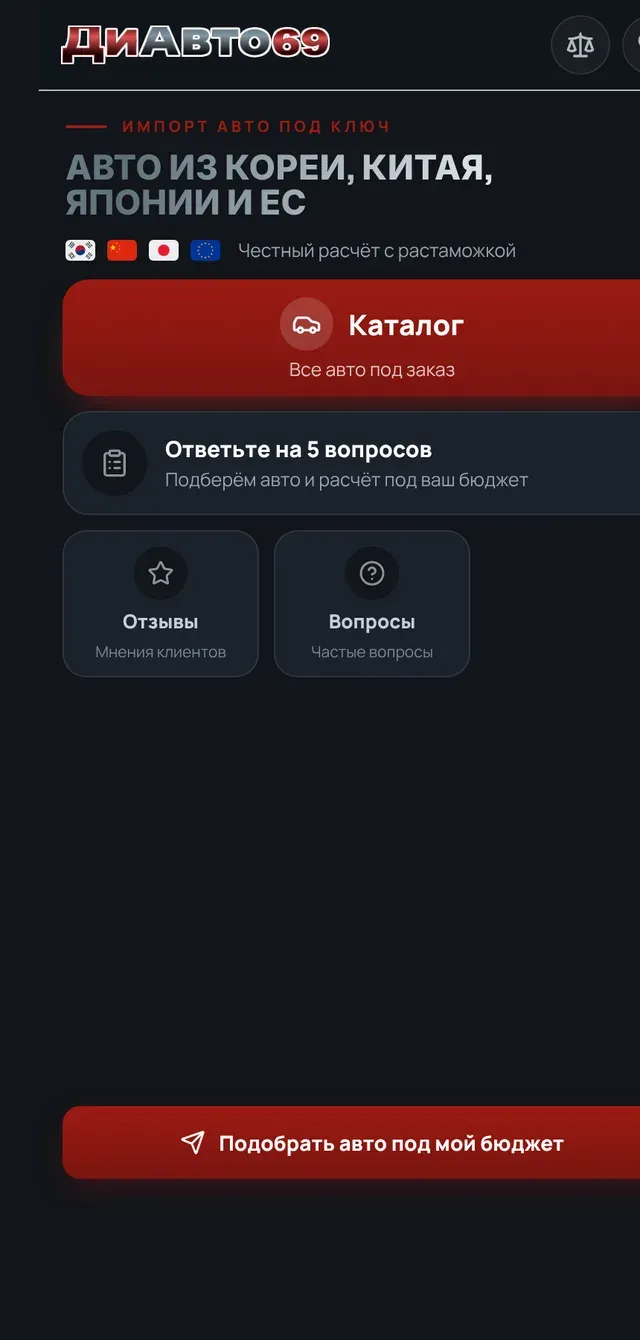
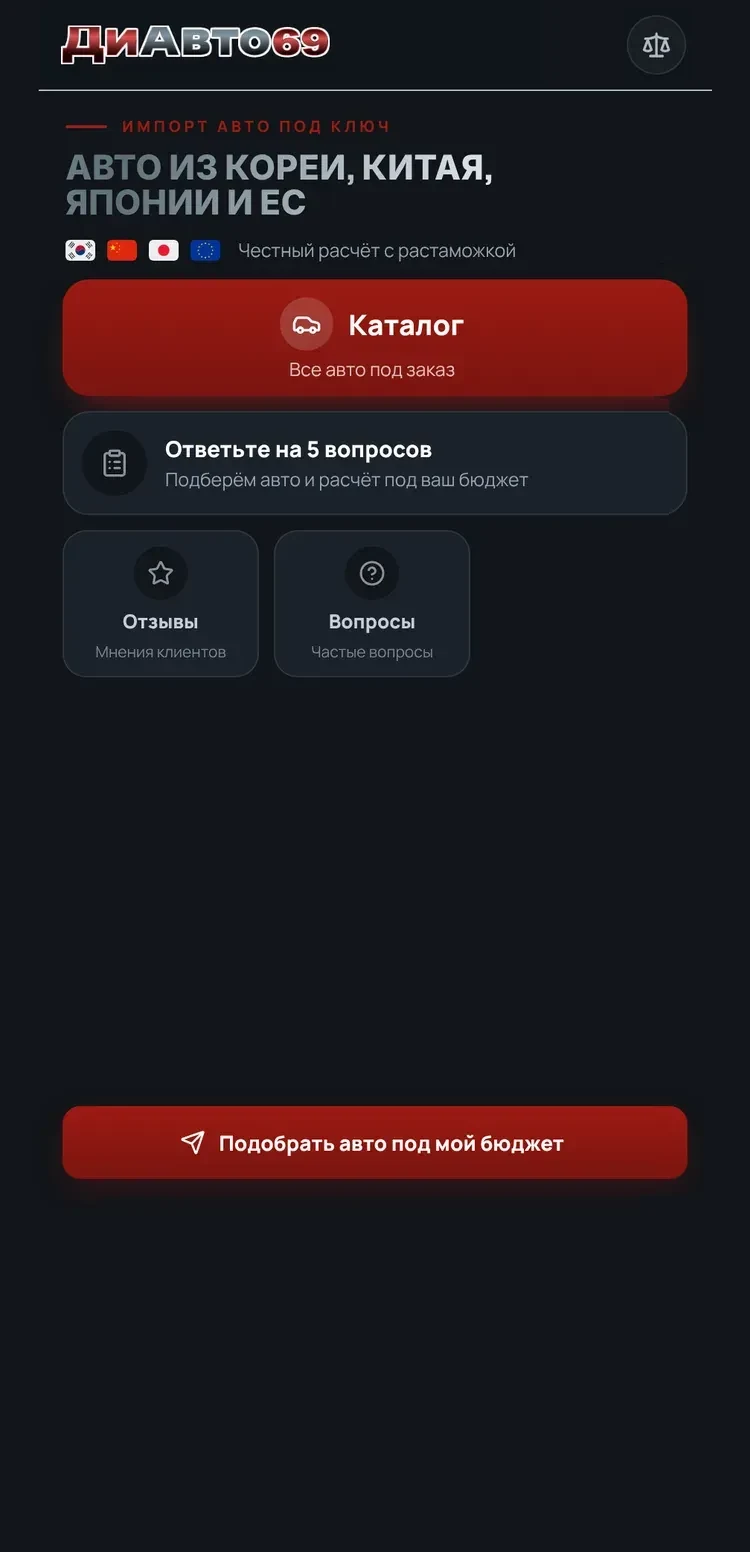
Страницы открываются сверху; ДиАвто69: раздача карточек по одной, ровный снимок мини-приложения
- SmoothScroll: при смене адреса и возврате «Назад» (включая bfcache) прокрутка и Lenis сбрасываются в начало;
  переход по якорю не трогаем.
- RingScene: колода лежит ровно, карточки вылетают по одной (в полёте не больше двух).
- Снимок мини-приложения был обрезан справа: края карточек и шапки достроены, кадр под пропорции телефона.

Claude-Session: https://claude.ai/code/session_011GUUo1nfnEfxLEAH351urY

diff --git a/src/components/diauto/RingScene.tsx b/src/components/diauto/RingScene.tsx
@@ -69,7 +69,12 @@ function glowTexture() {
 }
 
 /** Псевдослучайный разброс колоды, одинаковый при каждом заходе */
-const JITTER = CARS.map((_, i) => ({ x: Math.sin(i * 12.9) * 0.09, rz: Math.sin(i * 7.3) * 0.07 }));
+// Колода лежит ровно: еле заметный сдвиг краёв, чтобы читалось, что карточек много
+const JITTER = CARS.map((_, i) => ({ x: Math.sin(i * 12.9) * 0.02, rz: Math.sin(i * 7.3) * 0.012 }));
+/** Раздача по одной: карточка летит DEAL прогресса, следующая стартует через GAP — в полёте не больше двух */
+const DEAL = 0.075;
+const GAP = 0.036;
+const DEALT_AT = 0.04 + (N - 1) * GAP + DEAL;
 
 /**
  * Витрина ДиАвто69. Сначала карточки лежат колодой, как посты в канале. По скроллу колода
@@ -141,11 +146,11 @@ function Ring({ still }: { still: boolean }) {
       // Без закрепления: колода раздаётся за пару секунд, дальше кольцо крутится само
       if (s.t0 < 0) s.t0 = time;
       const t = time - s.t0;
-      s.p = clamp(t / 2.2, 0, 1);
-      theta = Math.max(0, t - 2.4) * 0.32;
+      s.p = clamp(t / 3.6, 0, 1);
+      theta = Math.max(0, t - 3.8) * 0.32;
     } else {
       s.p = damp(s.p, ringState.progress, 6, dt);
-      theta = smoothstep(s.p, 0.42, 1) * STEP * (N - 1);
+      theta = smoothstep(s.p, DEALT_AT + 0.02, 1) * STEP * (N - 1);
     }
     s.px = damp(s.px, pointer.current.x, 3, dt);
     s.py = damp(s.py, pointer.current.y, 3, dt);
@@ -165,12 +170,13 @@ function Ring({ still }: { still: boolean }) {
     for (let i = 0; i < N; i++) {
       const c = cards.current[i];
       if (!c) continue;
-      const k = still ? 1 : clamp((s.p - 0.04 - i * 0.026) / 0.2, 0, 1);
+      const k = still ? 1 : clamp((s.p - 0.04 - i * GAP) / DEAL, 0, 1);
       const e = easeInOut(k);
       const target = wrap(i * STEP);
       const ang = lerp(0, target, e);
-      const rad = R + (1 - e) * (0.55 - i * 0.045);
-      c.position.set(Math.sin(ang) * rad + (1 - e) * JITTER[i].x, Math.sin(k * Math.PI) * 0.22, Math.cos(ang) * rad);
+      const rad = R + (1 - e) * (0.55 - i * 0.03);
+      // В колоде карточки чуть приподняты стопкой, в полёте поднимаются дугой
+      c.position.set(Math.sin(ang) * rad + (1 - e) * JITTER[i].x, Math.sin(k * Math.PI) * 0.22 + (1 - e) * (N - 1 - i) * 0.012, Math.cos(ang) * rad);
       c.rotation.set(0, ang, (1 - e) * JITTER[i].rz);
 
       // Ближняя к зрителю карточка ярче и крупнее
@@ -181,7 +187,7 @@ function Ring({ still }: { still: boolean }) {
         best = i;
       }
       const focus = Math.pow(Math.max(0, cos), 6);
-      const dealt = smoothstep(s.p, 0.25, 0.42);
+      const dealt = smoothstep(s.p, DEALT_AT - 0.12, DEALT_AT);
       c.scale.setScalar(1 + focus * 0.1 * dealt);
       const light = lerp(1 - i * 0.04, 0.32 + 0.68 * Math.pow(Math.max(0, (cos + 1) / 2), 2.2), dealt);
       const front = fronts.current[i];
@@ -194,7 +200,7 @@ function Ring({ still }: { still: boolean }) {
     }
 
     // Подпись под сценой: меняем текст только при смене ближней карточки
-    if (best !== s.front && smoothstep(s.p, 0.25, 0.42) > 0.5) {
+    if (best !== s.front && smoothstep(s.p, DEALT_AT - 0.12, DEALT_AT) > 0.5) {
       s.front = best;
       const car = CARS[best];
       const cap = ringState.caption;

diff --git a/src/components/SmoothScroll.tsx b/src/components/SmoothScroll.tsx
@@ -1,6 +1,7 @@
 "use client";
 
 import { useEffect } from "react";
+import { usePathname } from "next/navigation";
 import Lenis from "lenis";
 import { gsap } from "gsap";
 import { ScrollTrigger } from "gsap/ScrollTrigger";
@@ -10,7 +11,39 @@ gsap.registerPlugin(ScrollTrigger);
 /** Доступ к Lenis из других компонентов: поп-ап ставит прокрутку страницы на паузу */
 export const lenisRef: { current: Lenis | null } = { current: null };
 
+/** В начало страницы: и браузер, и Lenis, иначе Lenis вернёт свою прежнюю позицию */
+function toTop() {
+  lenisRef.current?.scrollTo(0, { immediate: true, force: true });
+  window.scrollTo(0, 0);
+}
+
 export default function SmoothScroll() {
+  const pathname = usePathname();
+
+  // Каждая страница показывается с начала, в том числе при возврате кнопкой «Назад»: сцены первых
+  // экранов рассчитаны на просмотр сверху. Next восстанавливает прокрутку после смены адреса,
+  // поэтому повторяем через кадр. Переход по ссылке с якорем (#блок) не трогаем.
+  useEffect(() => {
+    if (window.location.hash) return;
+    toTop();
+    const raf = requestAnimationFrame(() => {
+      toTop();
+      ScrollTrigger.refresh();
+    });
+    const late = window.setTimeout(toTop, 120);
+    return () => {
+      cancelAnimationFrame(raf);
+      window.clearTimeout(late);
+    };
+  }, [pathname]);
+
+  // Возврат на страницу из кэша браузера (bfcache) тоже начинается сверху
+  useEffect(() => {
+    const onShow = (e: PageTransitionEvent) => e.persisted && !window.location.hash && toTop();
+    window.addEventListener("pageshow", onShow);
+    return () => window.removeEventListener("pageshow", onShow);
+  }, []);
+
   useEffect(() => {
     // Сцена hero рассчитана на просмотр с начала: не восстанавливаем прокрутку при перезагрузке
     if (!window.location.hash) {
